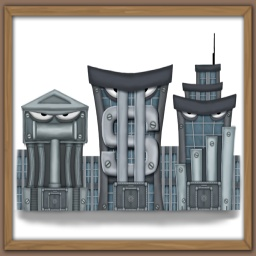
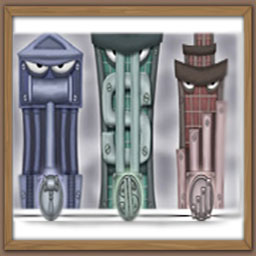
A new "change" for Short Change and more texture tweaks by me. :3

diff --git a/toontown/suit/Suit.py b/toontown/suit/Suit.py
@@ -115,6 +115,7 @@ mh = (('magic1', 'magic1', 5),
  ('song-and-dance', 'song-and-dance', 8))
 ca = (('pickpocket', 'pickpocket', 5),
  ('speak', 'speak', 5),
+ ('throw-paper', 'throw-paper', 3.5),     
  ('pen-squirt', 'fountain-pen', 5))
 cn = (('speak', 'speak', 5),
  ('throw-paper', 'throw-paper', 5),
@@ -614,6 +615,7 @@ class Suit(Avatar.Avatar):
             self.setHeight(8.69)
         elif dna.name == 'sc':
             self.scale = scale / cSize
+            self.headTexture = 'short_change.jpg'
             self.handColor = SuitDNA.moneyPolyColor
             self.generateBody()
             self.generateHead('coldcaller')
